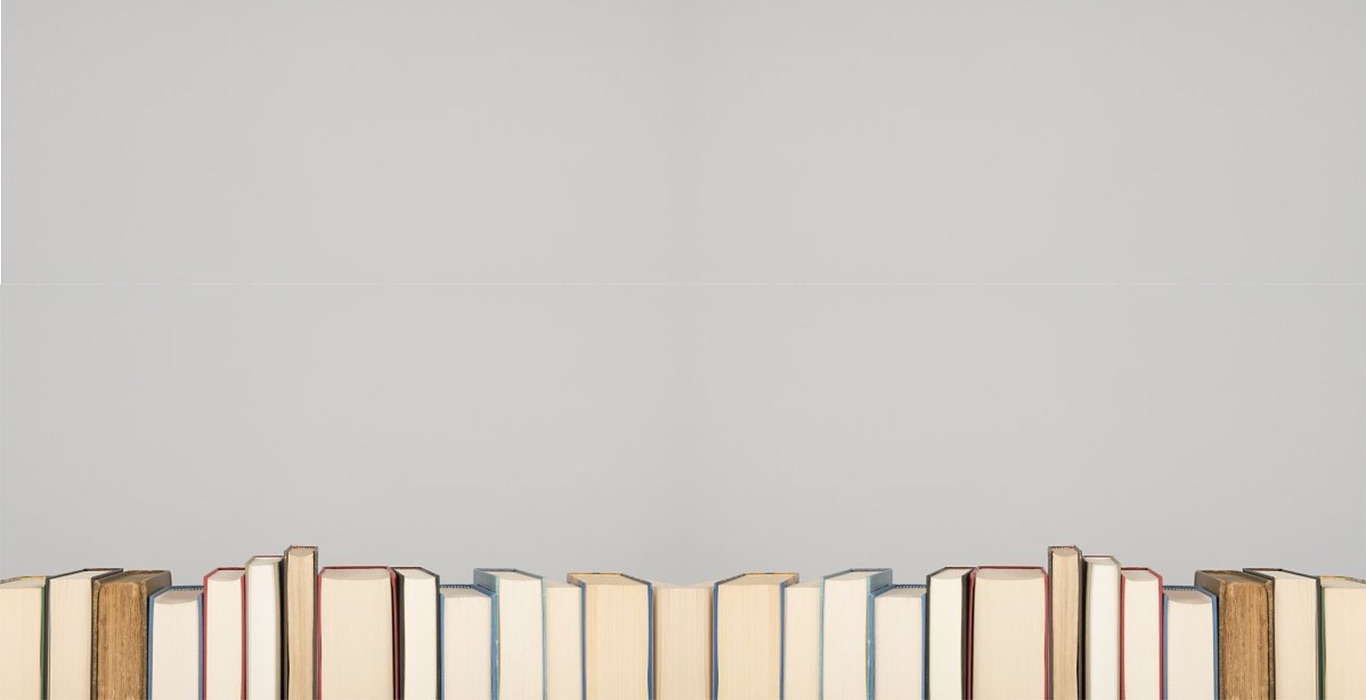
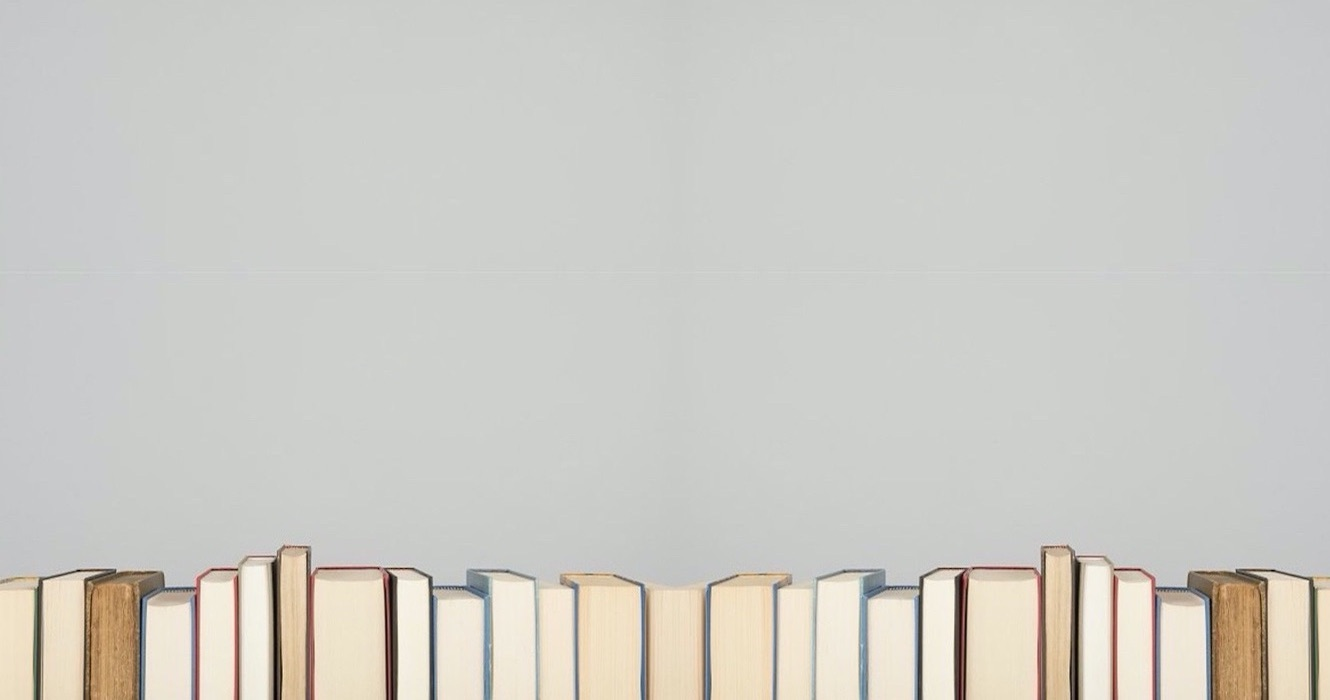
spec 수정

Changed region(s): [[0.0, 0.78, 1.0, 1.0]]

diff --git a/dodam/dodamweb/templates/spec.html b/dodam/dodamweb/templates/spec.html
@@ -118,64 +118,7 @@
 
         </style>
 
-        <script>
-            function showBookinside(title) {
-                // 1. 리뷰 목록을 서버에 요청하기
-                url = `/book?title=${title}`
-
-                $.ajax({
-                    type: "GET",
-                    url: url,
-                    data: {},
-                    success: function (response) {
-                        // 2. 요청 성공 여부 확인하기
-                        if (response["result"] == "success") {
-                            let books = response["books"];
-                            // 3. 요청 성공했을 때 리뷰를 올바르게 화면에 나타내기
-                            for (let i = 0; i < books.length; i++) {
-                                makeBook(books[i]["bookcover"],books[i]["title"],book[i]["author"],book[i]["explain"],music[i]["url"],book[i]["inthebook"]);
-                            }
-                        } else {
-                            alert("리뷰를 받아오지 못했습니다");
-                        }
-                    }
-                })
-            }
-
-
-            function makeBook(bookcover,title,author,explain,music,inthebook) {
-                let tempHtml =
-                    `
-        <div class="content">
-
-            <div class="aside">
-                <div class="book_info">
-                    <div class="book_cover"><img class="book-item" src=${url}></div>
-
-                    <div class="explanation">
-                        <a href="#" class="title">${title}</a>
-                        <p class="author">${author}</p>
-                        <p class="exp">${explain}</p>
-                    </div>
-                </div>
-
-                <div class="music">
-                    ${music}
-                </div>
-
-                </div>
-
-            <div class="main">
-                 <p class="inthebook">${inthebook}</p>
-            </div>
-        </div>
-
-                    `
-
-                $("#wrap").append(tempHtml);
-            }
-
-        </script>
+        <script></script>
 
 
     </head>

diff --git a/dodam/dodamweb/templates/index.html b/dodam/dodamweb/templates/index.html
@@ -38,13 +38,14 @@
 
             * {
                 font-family: 'Nanum Myeongjo', serif;
-                background-position: top;
+
             }
 
             /*fade-in-up 효과 코드*/
             body {
                 padding: 40px;
                 background-image: url('../static/background.jpg');
+                background-size : 100%;
 
 
             }
@@ -114,8 +115,6 @@
         <div class="animated animatedFadeInUp fadeInUp title">
 
             <a href="{% url 'shelf' %}"><img class="img-button"></a>
-
-<!--            <button type="button" class="img-button" onClick="location.href=" {% url 'shelf' %}""></button>-->
             <h6></h6>
             <h3>"도담도담"은,</h3>
             <h6>우리나라의 퓨전 국악과 함께 100권의 한국 소설을 미리 읽어볼 수 있는 서비스를 제공합니다.</h6>
